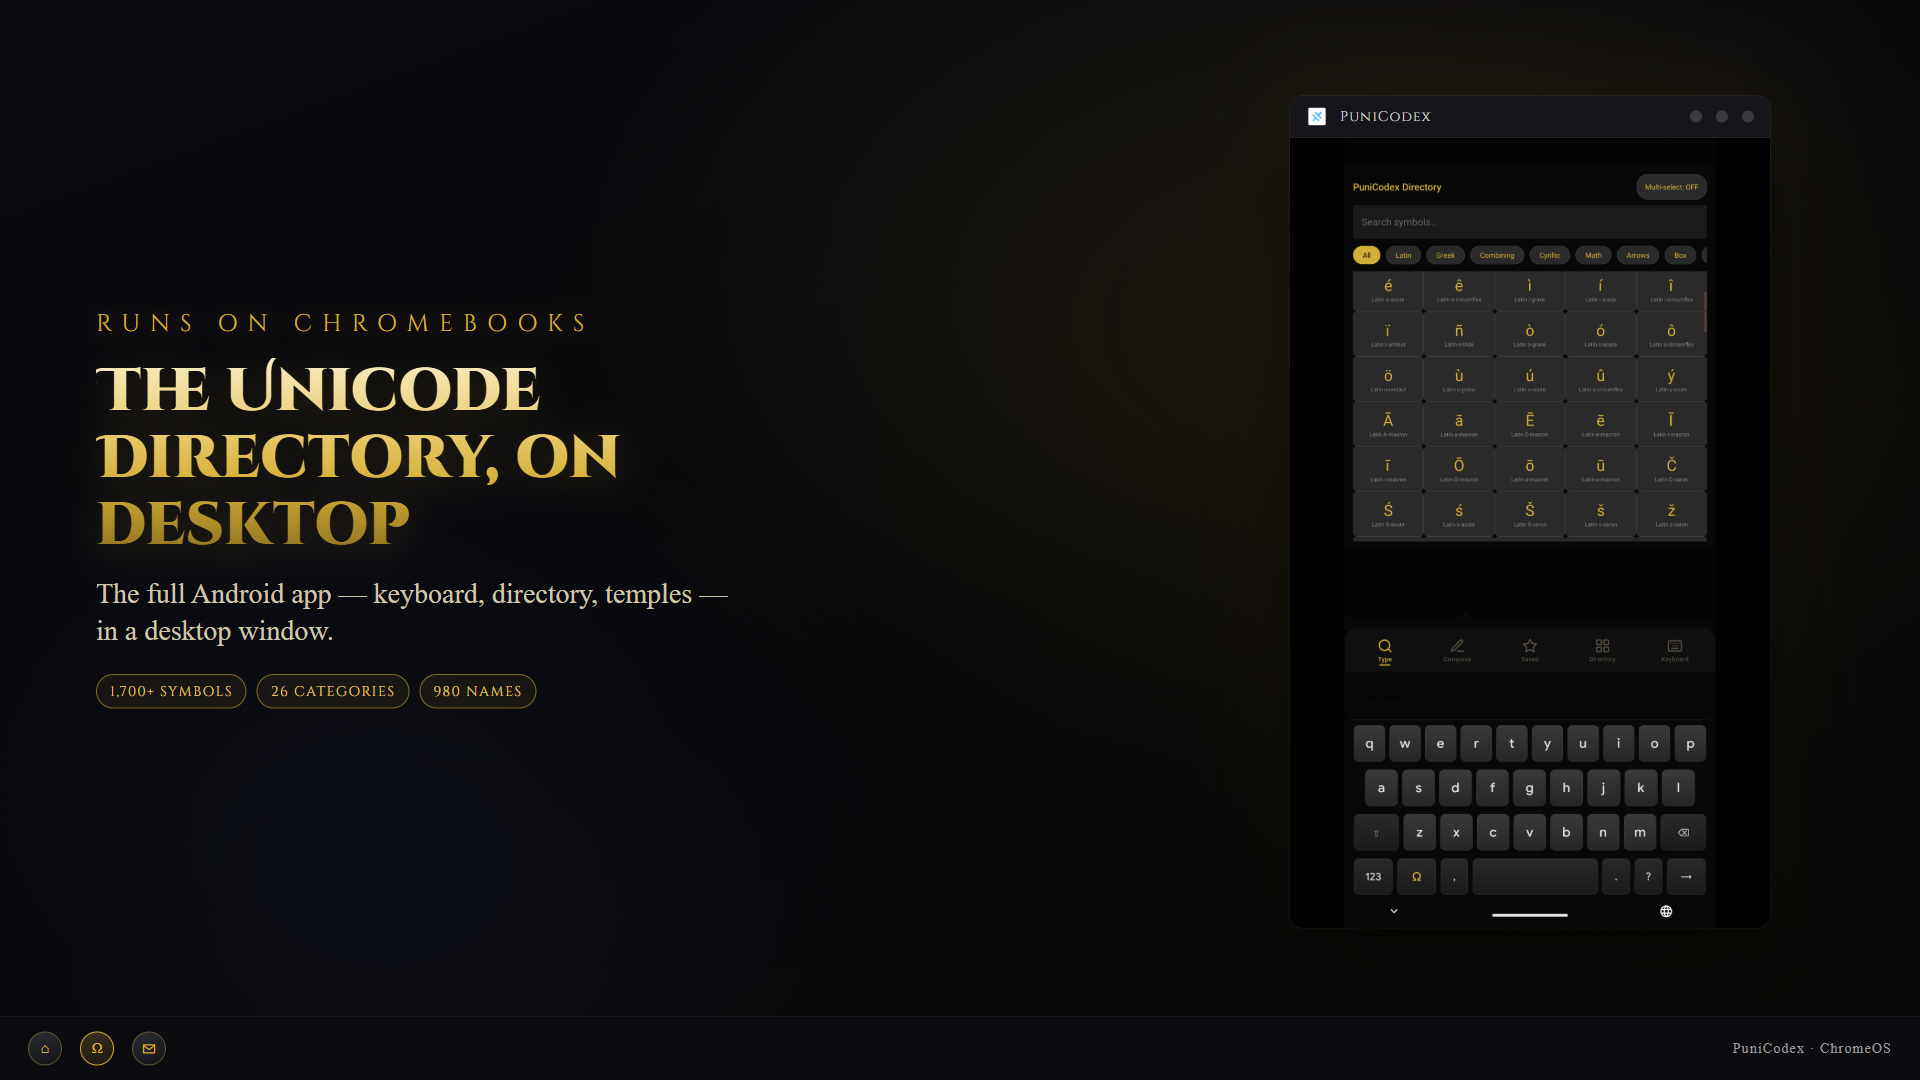
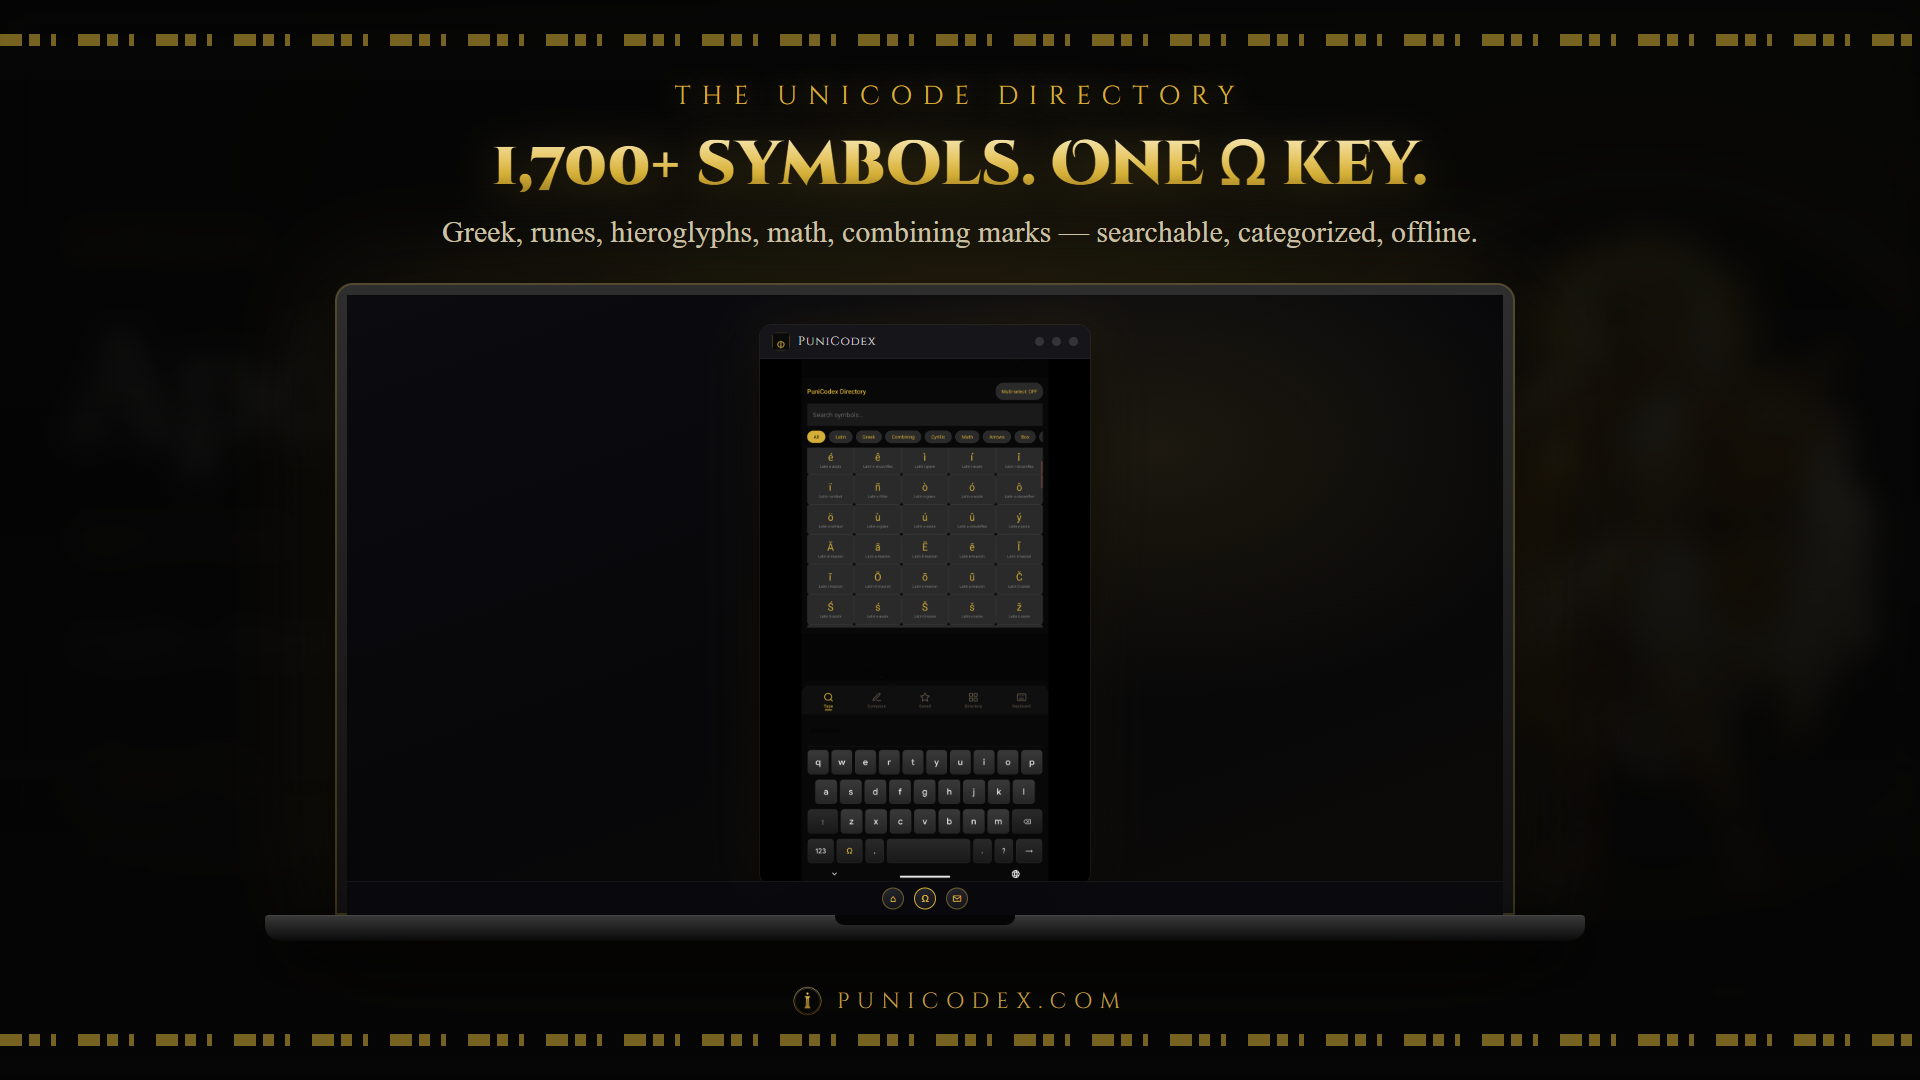
marketing: desktop/ = 8 laptop-style shots of the APP
Play's Desktop slot wants the app, not the website — and the ChromeOS
floating-window scene read as fake. The laptop.html template gains an
app mode (mode=app): same laptop hardware + gold headline design as the
website promos, but the screen shows a desktop wallpaper with the APP in
a window (title bar, taskbar). Eight shots matching the phone set 1:1
(directory, latin, letterlike, convert, temple, keyboard, shield, setup),
all 1920x1080 16:9 spec-compliant.

diff --git a/Marketing/_templates/render-desktop.js b/Marketing/_templates/render-desktop.js
@@ -1,54 +1,24 @@
-/* Render Desktop-assets screenshots (1920x1080): the APP in a ChromeOS-style
- * window on a desktop scene — this is what Play's Desktop slot wants.
- * Run: node Marketing/_templates/render-desktop.js */
+/* Desktop-assets screenshots (1920x1080): the laptop hardware mockup with
+ * the APP in a desktop window on the screen — same design language as the
+ * website laptop promos, app content instead. Eight shots matching the
+ * phone set. Run: node Marketing/_templates/render-desktop.js */
 const { chromium } = require('playwright-core');
 
 const ROOT = 'C:/projects/punicodex';
 const T = 'file:///' + ROOT + '/Marketing/_templates';
+const OG = 'file:///' + ROOT + '/assets/og';
 const W = 'file:///' + ROOT + '/Marketing/_work';
 const OUT = ROOT + '/Marketing/google-play/desktop';
 
 const SHOTS = [
-  {
-    file: 'desktop-1-directory.png',
-    shot: W + '/crop_all.png',
-    kicker: 'Runs on Chromebooks',
-    headline: 'The Unicode Directory, on desktop',
-    sub: 'The full Android app — keyboard, directory, temples — in a desktop window.',
-    chips: '1,700+ Symbols|26 Categories|980 Names',
-  },
-  {
-    file: 'desktop-2-convert.png',
-    shot: W + '/crop_type.png',
-    kicker: 'Scholarly Unicode',
-    headline: 'Type “apoll”. Get Apóllōn.',
-    sub: 'Every accent and macron, restored from the sources.',
-    chips: '25 Pantheons|Original Scripts',
-  },
-  {
-    file: 'desktop-3-temple.png',
-    shot: W + '/crop_detail.png',
-    kicker: '980 Living Temples',
-    headline: 'Every name opens its temple',
-    sub: 'Lore, pronunciation, variants — and its real Unicode domain.',
-    chips: 'apollon.com|Zeus.com',
-  },
-  {
-    file: 'desktop-4-shield.png',
-    shot: W + '/crop_shield.png',
-    kicker: 'Authenticity Shield',
-    headline: 'Spot lookalike names',
-    sub: 'Homograph and mixed-script spoofs — checked offline.',
-    chips: 'On-Device|Zero Keylogging',
-  },
-  {
-    file: 'desktop-5-setup.png',
-    shot: W + '/crop_setup.png',
-    kicker: 'Signed, Sealed',
-    headline: 'Your keyboard, your device',
-    sub: 'No accounts, no uploads — everything stays local.',
-    chips: 'Works Offline|No Sign-Up',
-  },
+  { file: 'desktop-1-directory.png', shot: W + '/crop_all.png', backdrop: OG + '/apollon.jpg', kicker: 'The Unicode Directory', headline: '1,700+ symbols. One Ω key.', sub: 'Greek, runes, hieroglyphs, math, combining marks — searchable, categorized, offline.' },
+  { file: 'desktop-2-latin.png', shot: W + '/crop_latin.png', backdrop: OG + '/athena.jpg', kicker: 'First Category · Latin', headline: 'Á Æ È É Ê — all of it', sub: 'Every precomposed Latin diacritic, plus combining marks for the rest.' },
+  { file: 'desktop-3-letterlike.png', shot: W + '/crop_letter.png', backdrop: OG + '/hekate.jpg', kicker: 'Last Category · Letterlike', headline: '…to ℞ № ™ ℀', sub: 'Twenty-six categories deep — currency, cuneiform, Braille, Baybayin and more.' },
+  { file: 'desktop-4-convert.png', shot: W + '/crop_type.png', backdrop: OG + '/zeus.jpg', kicker: 'Scholarly Unicode', headline: 'Type “apoll”. Get Apóllōn.', sub: '980 restored names across 25 pantheons — accents, macrons, the works.' },
+  { file: 'desktop-5-temple.png', shot: W + '/crop_detail.png', backdrop: OG + '/apollon.jpg', kicker: '980 Living Temples', headline: 'Every name opens its temple', sub: 'Lore, pronunciation, scholarly variants — and its real Unicode domain.' },
+  { file: 'desktop-6-keyboard.png', shot: W + '/crop_ime.png', backdrop: OG + '/ares.jpg', kicker: 'A Real Keyboard', headline: 'Not stickers. Scholarship.', sub: 'A full system keyboard with a 980-name suggestion engine baked in.' },
+  { file: 'desktop-7-shield.png', shot: W + '/crop_shield.png', backdrop: OG + '/athena.jpg', kicker: 'Authenticity Shield', headline: 'Spot lookalike names', sub: 'Homograph and mixed-script spoofs — checked offline, on your device.' },
+  { file: 'desktop-8-setup.png', shot: W + '/crop_setup.png', backdrop: OG + '/nike.jpg', kicker: 'Thirty Seconds', headline: 'Enable. Switch. Type.', sub: 'No accounts, no uploads — everything stays on your device.' },
 ];
 
 (async () => {
@@ -60,8 +30,16 @@ const SHOTS = [
   });
   for (const s of SHOTS) {
     const page = await browser.newPage({ viewport: { width: 1920, height: 1080 } });
-    const q = new URLSearchParams({ shot: s.shot, kicker: s.kicker, headline: s.headline, sub: s.sub, chips: s.chips });
-    await page.goto(T + '/desktop.html?' + q.toString());
+    const q = new URLSearchParams({
+      shot: s.shot,
+      backdrop: s.backdrop,
+      kicker: s.kicker,
+      headline: s.headline,
+      sub: s.sub,
+      url: 'PuniCodex app',
+      mode: 'app',
+    });
+    await page.goto(T + '/laptop.html?' + q.toString());
     await page.waitForTimeout(900);
     await page.screenshot({ path: `${OUT}/${s.file}` });
     console.log('rendered', s.file);

diff --git a/Marketing/_templates/laptop.html b/Marketing/_templates/laptop.html
@@ -95,6 +95,42 @@
   }
   .browser .viewport { height: 620px; overflow: hidden; background: #000; }
   .browser .viewport img { width: 100%; height: 100%; object-fit: cover; object-position: center top; display: block; }
+  /* mode=app: the laptop screen shows a desktop with the APP in a window */
+  .desktop-screen {
+    height: 620px; position: relative; overflow: hidden;
+    background:
+      radial-gradient(ellipse 700px 420px at 70% 25%, rgba(212,175,55,0.10), transparent 60%),
+      linear-gradient(160deg, #0b0b10 0%, #070709 55%, #0c0a08 100%);
+    display: flex; align-items: center; justify-content: center;
+  }
+  .desktop-screen .appwin {
+    width: 330px; height: 560px; border-radius: 12px; overflow: hidden;
+    background: #0d0d0f;
+    box-shadow: 0 24px 60px rgba(0,0,0,0.75), 0 0 50px rgba(212,175,55,0.10),
+      0 0 0 1px rgba(255,255,255,0.08);
+  }
+  .desktop-screen .appwin .tb {
+    height: 34px; display: flex; align-items: center; gap: 8px;
+    background: #15151a; padding: 0 12px; border-bottom: 1px solid #202024;
+  }
+  .desktop-screen .appwin .tb img { width: 18px; height: 18px; border-radius: 5px; }
+  .desktop-screen .appwin .tb .n { font-size: 12px; color: #cfcfcf; letter-spacing: 0.08em; font-family: 'Cinzel', serif; }
+  .desktop-screen .appwin .tb .dots { margin-left: auto; display: flex; gap: 8px; }
+  .desktop-screen .appwin .tb .dots span { width: 9px; height: 9px; border-radius: 50%; background: #33333a; }
+  .desktop-screen .appwin .body { height: 526px; background: #000; display: flex; align-items: center; justify-content: center; }
+  .desktop-screen .appwin .body img { max-width: 100%; max-height: 100%; object-fit: contain; }
+  .desktop-screen .taskbar {
+    position: absolute; left: 0; right: 0; bottom: 0; height: 34px;
+    background: rgba(10,10,14,0.95); border-top: 1px solid rgba(255,255,255,0.05);
+    display: flex; align-items: center; justify-content: center; gap: 10px;
+  }
+  .desktop-screen .taskbar .ti {
+    width: 22px; height: 22px; border-radius: 50%;
+    background: linear-gradient(160deg, #26262e, #131318);
+    border: 1px solid rgba(212,175,55,0.4);
+    display: flex; align-items: center; justify-content: center;
+    font-size: 10px; color: #d4af37;
+  }
   .base {
     width: 1320px; height: 26px; margin-left: -70px;
     background: linear-gradient(180deg, #3a3a3a, #0a0a0a);
@@ -124,12 +160,12 @@
     <div class="sub" id="sub"></div>
     <div class="laptop">
       <div class="lid">
-        <div class="browser">
+        <div class="browser" id="browserBox">
           <div class="bar">
             <div class="dot r"></div><div class="dot y"></div><div class="dot g"></div>
             <div class="url" id="url">punicodex.com</div>
           </div>
-          <div class="viewport"><img id="shot"></div>
+          <div class="viewport" id="viewport"><img id="shot"></div>
         </div>
       </div>
       <div class="base"><div class="notch"></div></div>
@@ -145,8 +181,20 @@
     document.getElementById('headline').textContent = q.get('headline') || '';
     document.getElementById('sub').textContent = q.get('sub') || '';
     document.getElementById('url').textContent = q.get('url') || 'punicodex.com';
-    document.getElementById('shot').src = q.get('shot');
     document.getElementById('backdrop').style.backgroundImage = 'url(' + q.get('backdrop') + ')';
+    if (q.get('mode') === 'app') {
+      // Swap the browser chrome for a desktop-with-app-window screen.
+      document.getElementById('browserBox').outerHTML =
+        '<div class="desktop-screen">' +
+        '<div class="appwin">' +
+        '<div class="tb"><img src="file:///C:/projects/punicodex/assets/images/icon192.png"><div class="n">PuniCodex</div><div class="dots"><span></span><span></span><span></span></div></div>' +
+        '<div class="body"><img src="' + q.get('shot') + '"></div>' +
+        '</div>' +
+        '<div class="taskbar"><div class="ti">⌂</div><div class="ti" style="border-color:#d4af37">Ω</div><div class="ti">✉</div></div>' +
+        '</div>';
+    } else {
+      document.getElementById('shot').src = q.get('shot');
+    }
   </script>
 </body>
 </html>
